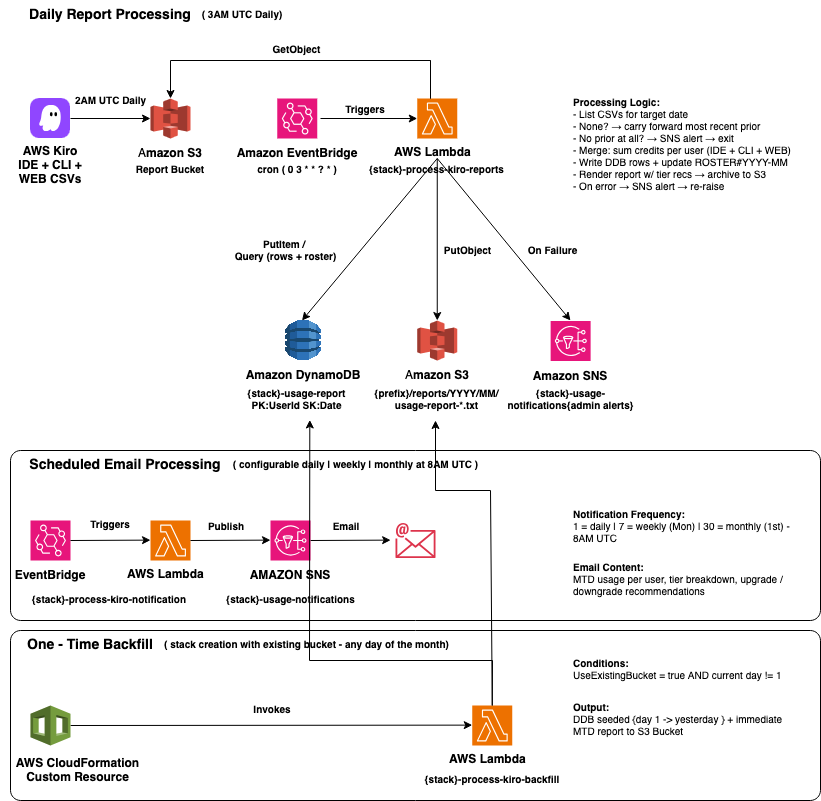
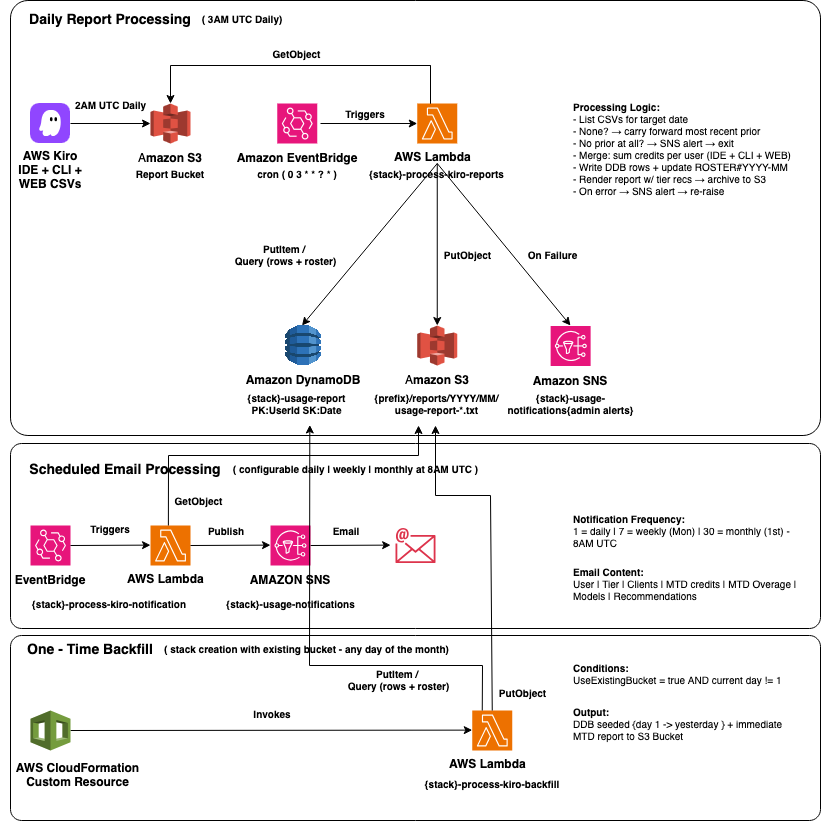
feat(dynamodb): Add 90-day TTL to usage table and refresh README
Enable DynamoDB TTL on the usage table so rows auto-expire 90 days
after they are written, keeping the table bounded even if the operator
never cleans up. TTL deletes are performed by DynamoDB itself, so no
extra IAM grant or write cost is incurred, and they comfortably outlive
the longest read window (the current month) so month-to-date reports
are never affected.

Every writer stamps an ExpiresAt attribute: the per-user daily rows and
the per-month roster item, in both the process-kiro-reports and
process-kiro-backfill Lambdas.

README changes:
- Document the TTL cleanup behavior in the Cleaning Up section and flag
  the 90-day TTL in the cost table.
- Remove bold emphasis from the Overview, Report File Naming Convention,
  Tier Limits (leading text), Mid-month installs, Customization, and
  Sample Output (leading) sections.
- Note that tier pricing is subject to change; set
  NotificationFrequency=1 in the deploy example.

Also update the architecture diagram to the latest version.

diff --git a/README.md b/README.md
@@ -25,7 +25,7 @@ aws cloudformation deploy \
       ReportPrefix=kiro-user-activity \
       KiroProfileRegion=us-east-1 \
       NotificationEmail=your-email@example.com \
-      NotificationFrequency=7 \
+      NotificationFrequency=1 \
   --capabilities CAPABILITY_IAM
 ```
 
@@ -51,9 +51,9 @@ Click the SNS subscription confirmation link sent to your inbox. Reports begin a
 
 Kiro Enterprise delivers daily usage reports to S3 at 2:00 AM UTC, split by client type (`KIRO_IDE_*.csv`,`KIRO_WEB_*.csv`, `KIRO_CLI_*.csv`). At 3:00 AM UTC the `process-kiro-reports` Lambda:
 
-- **Merges** all CSVs for the target date, summing `Credits_Used` and `Overage_Credits_Used` per user across client types and unioning the **client types** (`Client_Type`, e.g. `KIRO_WEB`, `KIRO_CLI`, `KIRO_IDE`) and **models** each user touched. Models are read from every per-model column (any header ending in `_messages`, e.g. `auto_messages`, `claude_opus_5_messages`); the model name is the header prefix and a model counts only when its message count is above zero. If no report exists for the date, the most recent prior report is carried forward (labelled accordingly).
-- **Persists** one consolidated row per user per day to DynamoDB (idempotent) and **accumulates** per-user month-to-date totals across a per-month user roster, so users active earlier in the month still appear on days they had no usage. The roster resets on the 1st.
-- **Archives** the rendered report to S3 (`<ReportPrefix>/reports/YYYY/MM/`) and **alerts** the admin via SNS if no report exists on or before the target date, or if processing fails.
+- Merges all CSVs for the target date, summing `Credits_Used` and `Overage_Credits_Used` per user across client types and unioning the client types (`Client_Type`, e.g. `KIRO_WEB`, `KIRO_CLI`, `KIRO_IDE`) and models each user touched. Models are read from every per-model column (any header ending in `_messages`, e.g. `auto_messages`, `claude_opus_5_messages`); the model name is the header prefix and a model counts only when its message count is above zero. If no report exists for the date, the most recent prior report is carried forward (labelled accordingly).
+- Persists one consolidated row per user per day to DynamoDB (idempotent) and accumulates per-user month-to-date totals across a per-month user roster, so users active earlier in the month still appear on days they had no usage. The roster resets on the 1st.
+- Archives the rendered report to S3 (`<ReportPrefix>/reports/YYYY/MM/`) and alerts the admin via SNS if no report exists on or before the target date, or if processing fails.
 
 A separate, independently scheduled `process-kiro-notification` Lambda reads the latest archived report from S3 and emails it on the `NotificationFrequency` schedule. A one-time `process-kiro-backfill` Lambda seeds the current month's prior days when installing against an existing bucket mid-month (see [Mid-month installs](#mid-month-installs-backfill)).
 
@@ -69,7 +69,7 @@ Kiro delivers reports with separate CSVs per client type:
 {ReportPrefix}/AWSLogs/{AccountId}/KiroLogs/user_report/{Region}/YYYY/MM/DD/HH/KIRO_{ClientType}_{AccountId}_user_report_YYYYMMDDHHNN.csv
 ```
 
-The Lambda collects **all** `.csv` files for a date and sums credits per user across client types before writing a single consolidated row to DynamoDB. Each row also stores the set of **client types** and **models** the user used that day (as DynamoDB string sets `ClientTypes` and `Models`), which are unioned across the month for the report. Processed reports are archived under `{ReportPrefix}/reports/YYYY/MM/usage-report-YYYY-MM-DD-HHMMSS.txt`.
+The Lambda collects all `.csv` files for a date and sums credits per user across client types before writing a single consolidated row to DynamoDB. Each row also stores the set of client types and models the user used that day (as DynamoDB string sets `ClientTypes` and `Models`), which are unioned across the month for the report. Processed reports are archived under `{ReportPrefix}/reports/YYYY/MM/usage-report-YYYY-MM-DD-HHMMSS.txt`.
 
 ## Tier Limits & Pricing Logic
 
@@ -80,13 +80,13 @@ The Lambda collects **all** `.csv` files for a date and sums credits per user ac
 | Pro Max | 5,000 | $100/mo | $0.04/credit |
 | Power | 10,000 | $200/mo | $0.04/credit |
 
-Reference: [Kiro Enterprise Billing](https://kiro.dev/docs/cli/enterprise/billing/)
+Reference: [Kiro Enterprise Billing](https://kiro.dev/docs/cli/enterprise/billing/) (subject to change)
 
-The report produces a unified **"Cost Optimization Recommendations"** section with both upgrade and downgrade suggestions.
+The report produces a unified "Cost Optimization Recommendations" section with both upgrade and downgrade suggestions.
 
-- **Upgrades (always active):** the Lambda computes each user's total monthly cost on their current tier (`base + overage × $0.04`) from MTD usage and recommends the cheapest higher tier whose total cost is at or below what they already pay. The recommendation either saves money or, at break-even, costs the same while granting more credits. It can skip tiers (e.g. a heavy Pro user straight to Pro Max).
+- Upgrades (always active): the Lambda computes each user's total monthly cost on their current tier (`base + overage × $0.04`) from MTD usage and recommends the cheapest higher tier whose total cost is at or below what they already pay. The recommendation either saves money or, at break-even, costs the same while granting more credits. It can skip tiers (e.g. a heavy Pro user straight to Pro Max).
 
-- **Downgrades (last 5 days of the month only):** during the end-of-month window, the Lambda checks whether a user would be cheaper on a lower tier (accounting for overage there) and recommends the cheapest one. Downgrades say **"next month"** because, per [billing rules](https://kiro.dev/docs/cli/enterprise/billing/), they take effect the following month. The window is limited to the last 5 days because earlier in the month low usage is misleading.
+- Downgrades (last 5 days of the month only): during the end-of-month window, the Lambda checks whether a user would be cheaper on a lower tier (accounting for overage there) and recommends the cheapest one. Downgrades say "next month" because, per [billing rules](https://kiro.dev/docs/cli/enterprise/billing/), they take effect the following month. The window is limited to the last 5 days because earlier in the month low usage is misleading.
 
 ## Deployment Options
 
@@ -105,9 +105,9 @@ After deployment, check the `RequiredBucketPolicyStatement` stack output for the
 
 When installing against an existing bucket that already has reports and it's not the 1st, the `process-kiro-backfill` Lambda runs once during stack creation and seeds DynamoDB with every report from the 1st of the current month up to yesterday, so MTD totals are correct on the next 3:00 AM run.
 
-- Runs **once** per stack create; idempotent `put_item`s.
-- **Skips** when `UseExistingBucket=false` or when run on the 1st.
-- **Best-effort:** errors are logged but never block or roll back the stack.
+- Runs once per stack create; idempotent `put_item`s.
+- Skips when `UseExistingBucket=false` or when run on the 1st.
+- Best-effort: errors are logged but never block or roll back the stack.
 
 To (re)seed specific days manually, invoke the processing Lambda per date with `{"date": "YYYY-MM-DD"}` (see [Manual Lambda Invocation](#manual-lambda-invocation)).
 
@@ -115,13 +115,13 @@ To (re)seed specific days manually, invoke the processing Lambda per date with `
 
 All Lambda source code is embedded inline in `cfn/kiro-cost-optimizer.yaml` (under each function's `Code` → `ZipFile`). Edit the inline code and redeploy to change behavior.
 
-**Tier limits** — edit the `TIER_LIMITS` dictionary in the inline Lambda code:
+Tier limits — edit the `TIER_LIMITS` dictionary in the inline Lambda code:
 
 ```python
 TIER_LIMITS = {'Pro': 1000, 'Pro+': 2000, 'Pro Max': 5000, 'Power': 10000}
 ```
 
-**Processing schedule** — hardcoded to 3:00 AM UTC (`cron(0 3 * * ? *)`) in the `DailyProcessingRule` EventBridge rule, since Kiro delivers at a fixed 2:00 AM UTC. Edit its `ScheduleExpression` to change. The **notification** schedule is configurable at deploy time via `NotificationFrequency`.
+Processing schedule — hardcoded to 3:00 AM UTC (`cron(0 3 * * ? *)`) in the `DailyProcessingRule` EventBridge rule, since Kiro delivers at a fixed 2:00 AM UTC. Edit its `ScheduleExpression` to change. The notification schedule is configurable at deploy time via `NotificationFrequency`.
 
 ## Testing
 
@@ -139,7 +139,7 @@ aws logs tail /aws/lambda/kiro-cost-optimizer-process-kiro-reports --follow
 
 The email is split into two sections: users with a recommendation first, then everyone else. Within each, users are grouped by tier (Power → Pro+ → Pro) and sorted by MTD credits descending.
 
-The **Clients** column lists the client types the user was active on (`KIRO_` prefix stripped: `WEB`, `CLI`, `IDE`); the **Models** column lists the models they used (including `auto`, Kiro's automatic model picker). Both are comma-separated within a single cell. Models sits second-to-last (just before Recommendation) since its length varies the most, keeping the numeric columns aligned on the left.
+The Clients column lists the client types the user was active on (`KIRO_` prefix stripped: `WEB`, `CLI`, `IDE`); the Models column lists the models they used (including `auto`, Kiro's automatic model picker). Both are comma-separated within a single cell. Models sits second-to-last (just before Recommendation) since its length varies the most, keeping the numeric columns aligned on the left.
 
 > Note: the email is plain text with fixed-width columns, so it renders best in a monospace font. Some mail clients (e.g. Outlook with a default proportional font) may misalign the columns; the archived S3 report is the same content and renders correctly in any monospace viewer.
 
@@ -175,7 +175,7 @@ Variants:
 |---------|-------------|
 | S3 | ~$0.03 |
 | Lambda | ~$0.01 |
-| DynamoDB | ~$0.00 (on-demand) |
+| DynamoDB | ~$0.00 (on-demand, 90-day TTL) |
 | SNS | ~$0.00 |
 | EventBridge | Free |
 | **Total** | **~$0.04** |
@@ -197,6 +197,8 @@ aws cloudformation delete-stack --stack-name kiro-cost-optimizer
 ```
 
 Removes the Lambdas, EventBridge rules, SNS topic, DynamoDB table, and (if the stack created it) the S3 bucket. An existing bucket (`UseExistingBucket=true`) and its contents are retained.
+
+Even without teardown, the DynamoDB table never grows unbounded: every row (per-user daily rows and the per-month user roster) is written with an `ExpiresAt` timestamp, and DynamoDB TTL auto-deletes each row 90 days after it was written. TTL deletes are performed by DynamoDB itself, so they incur no IAM permission or write cost, and are best-effort (typically within a few days of expiry). 90 days comfortably outlives the longest read window (the current month), so month-to-date reports are never affected. TTL deletion applies only to rows written after this feature was deployed; rows written earlier have no `ExpiresAt` and persist until removed manually or with the stack.
 
 ## Security
 
